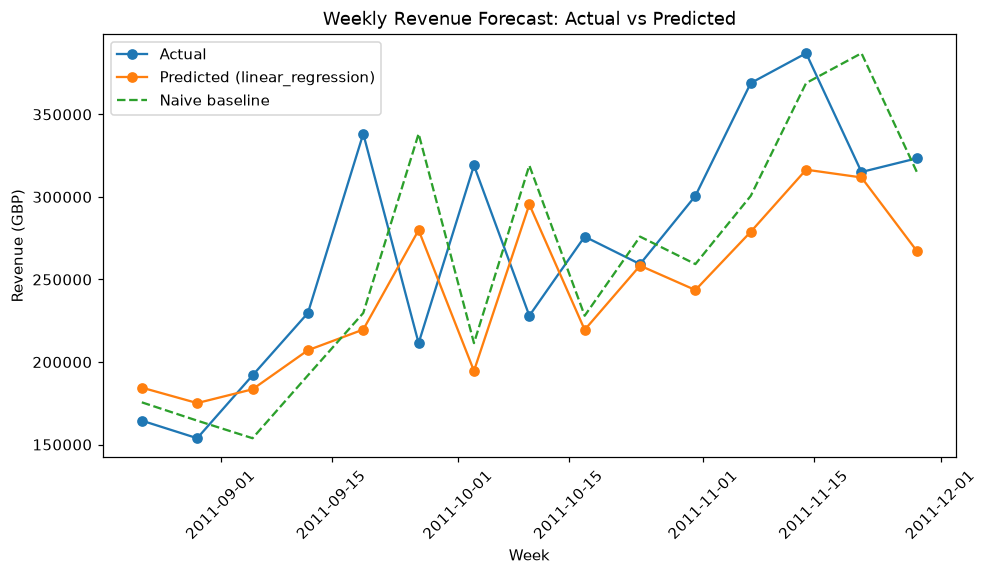
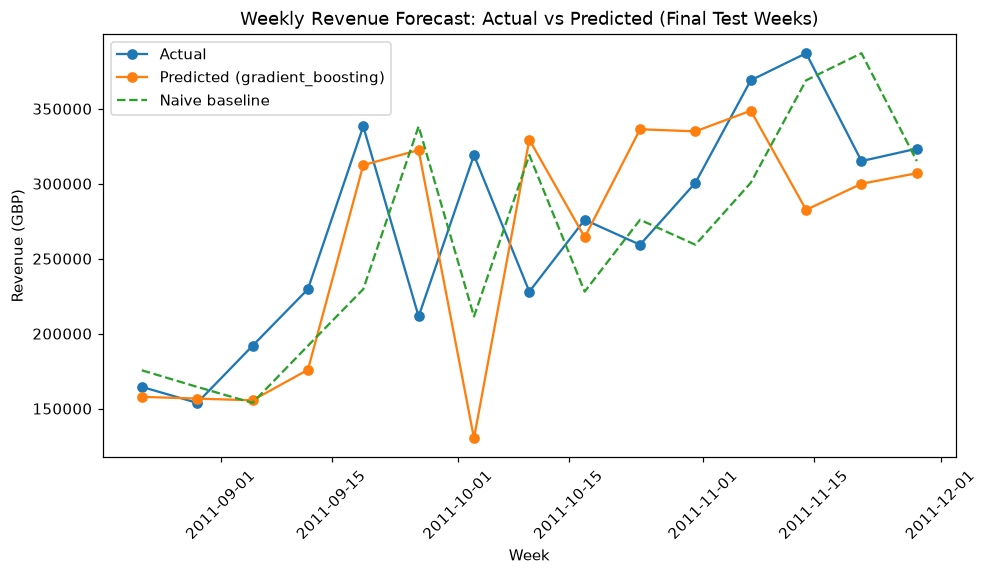
fix: separate model selection from final test evaluation in sales forecasting

diff --git a/scripts/sales_forecasting.py b/scripts/sales_forecasting.py
@@ -2,9 +2,16 @@
 Forecasts total weekly retail revenue.
 
 Builds a weekly revenue series from the cleaned transactions, compares a
-naive "last week repeats" baseline against a regression model trained on
-lag and rolling average features, and saves the evaluation plot and
-metrics.
+naive "last week repeats" baseline against a few regression models
+trained on lag and rolling average features.
+
+Model selection uses a validation period, not the final test period. The
+final test period is only touched once, after the winning model has
+already been chosen. This avoids picking whichever model happens to look
+best on the exact weeks we report results for.
+
+Split, in chronological order:
+    training period -> validation period -> final test period
 
 Run scripts/clean_data.py first so data/processed/retail_clean.csv exists.
 """
@@ -21,9 +28,11 @@ RANDOM_STATE = 42
 
 PROCESSED_DIR = os.path.join("data", "processed")
 FIGURES_DIR = os.path.join("outputs", "figures")
+TABLES_DIR = os.path.join("outputs", "tables")
 METRICS_PATH = os.path.join("outputs", "metrics", "model_metrics.csv")
 
 TEST_WEEKS = 15
+VALIDATION_WEEKS = 12
 
 
 def build_weekly_revenue():
@@ -57,11 +66,14 @@ def add_features(weekly):
 
 
 def append_metrics(rows):
+    # the winning model name changes depending on the validation result, so
+    # clear out any old "sales_forecast_<model>" rows first, otherwise a
+    # stale row from a previously winning model would stick around
     os.makedirs(os.path.dirname(METRICS_PATH), exist_ok=True)
     new_rows = pd.DataFrame(rows, columns=["model", "metric", "value"])
     if os.path.exists(METRICS_PATH):
         existing = pd.read_csv(METRICS_PATH)
-        existing = existing[~existing["model"].isin(new_rows["model"].unique())]
+        existing = existing[~existing["model"].str.startswith("sales_forecast")]
         combined = pd.concat([existing, new_rows], ignore_index=True)
     else:
         combined = new_rows
@@ -70,6 +82,7 @@ def append_metrics(rows):
 
 def main():
     os.makedirs(FIGURES_DIR, exist_ok=True)
+    os.makedirs(TABLES_DIR, exist_ok=True)
 
     weekly = build_weekly_revenue()
     print(f"Weekly revenue series has {len(weekly)} complete weeks")
@@ -81,18 +94,15 @@ def main():
     X = weekly[feature_cols]
     y = weekly["revenue"]
 
-    split_index = len(weekly) - TEST_WEEKS
-    X_train, X_test = X.iloc[:split_index], X.iloc[split_index:]
-    y_train, y_test = y.iloc[:split_index], y.iloc[split_index:]
-    naive_test = weekly["naive_prediction"].iloc[split_index:]
-    weeks_test = weekly["week_start"].iloc[split_index:]
+    test_start = len(weekly) - TEST_WEEKS
+    val_start = test_start - VALIDATION_WEEKS
 
-    print(f"Train weeks: {len(X_train)}, Test weeks: {len(X_test)}")
+    X_train, X_val, X_test = X.iloc[:val_start], X.iloc[val_start:test_start], X.iloc[test_start:]
+    y_train, y_val, y_test = y.iloc[:val_start], y.iloc[val_start:test_start], y.iloc[test_start:]
+    naive_test = weekly["naive_prediction"].iloc[test_start:]
+    weeks_test = weekly["week_start"].iloc[test_start:]
 
-    # naive baseline: next week's revenue = previous week's revenue
-    baseline_mae = mean_absolute_error(y_test, naive_test)
-    baseline_rmse = np.sqrt(mean_squared_error(y_test, naive_test))
-    print(f"\nNaive baseline  MAE: {baseline_mae:,.0f}  RMSE: {baseline_rmse:,.0f}")
+    print(f"Train weeks: {len(X_train)}, Validation weeks: {len(X_val)}, Test weeks: {len(X_test)}")
 
     candidates = {
         "linear_regression": LinearRegression(),
@@ -100,24 +110,40 @@ def main():
         "gradient_boosting": GradientBoostingRegressor(random_state=RANDOM_STATE),
     }
 
-    results = {}
+    print("\nValidation results (used to pick the model, not reported as final):")
+    val_scores = {}
     for name, model in candidates.items():
         model.fit(X_train, y_train)
-        preds = model.predict(X_test)
-        mae = mean_absolute_error(y_test, preds)
-        rmse = np.sqrt(mean_squared_error(y_test, preds))
-        results[name] = {"model": model, "mae": mae, "rmse": rmse, "preds": preds}
-        print(f"{name:<20} MAE: {mae:,.0f}  RMSE: {rmse:,.0f}")
+        val_preds = model.predict(X_val)
+        val_mae = mean_absolute_error(y_val, val_preds)
+        val_scores[name] = val_mae
+        print(f"{name:<20} validation MAE: {val_mae:,.0f}")
 
-    best_name = min(results, key=lambda k: results[k]["mae"])
-    best = results[best_name]
-    print(f"\nBest model: {best_name}")
+    best_name = min(val_scores, key=val_scores.get)
+    print(f"\nBest model on validation: {best_name}")
+
+    # refit the winning model on train + validation, then touch the final
+    # test period exactly once
+    X_train_val = pd.concat([X_train, X_val])
+    y_train_val = pd.concat([y_train, y_val])
+    best_model = candidates[best_name]
+    best_model.fit(X_train_val, y_train_val)
+    test_preds = best_model.predict(X_test)
+
+    baseline_mae = mean_absolute_error(y_test, naive_test)
+    baseline_rmse = np.sqrt(mean_squared_error(y_test, naive_test))
+    model_mae = mean_absolute_error(y_test, test_preds)
+    model_rmse = np.sqrt(mean_squared_error(y_test, test_preds))
+
+    print(f"\nFinal test results ({TEST_WEEKS} untouched weeks):")
+    print(f"Naive baseline       MAE: {baseline_mae:,.0f}  RMSE: {baseline_rmse:,.0f}")
+    print(f"{best_name:<20} MAE: {model_mae:,.0f}  RMSE: {model_rmse:,.0f}")
 
     fig, ax = plt.subplots(figsize=(10, 5))
     ax.plot(weeks_test, y_test.values, marker="o", label="Actual")
-    ax.plot(weeks_test, best["preds"], marker="o", label=f"Predicted ({best_name})")
+    ax.plot(weeks_test, test_preds, marker="o", label=f"Predicted ({best_name})")
     ax.plot(weeks_test, naive_test.values, linestyle="--", label="Naive baseline")
-    ax.set_title("Weekly Revenue Forecast: Actual vs Predicted")
+    ax.set_title("Weekly Revenue Forecast: Actual vs Predicted (Final Test Weeks)")
     ax.set_xlabel("Week")
     ax.set_ylabel("Revenue (GBP)")
     ax.tick_params(axis="x", rotation=45)
@@ -126,11 +152,20 @@ def main():
     plt.close(fig)
     print("Saved outputs/figures/12_sales_forecast_actual_vs_predicted.png")
 
+    results_table = pd.DataFrame({
+        "week_start": weeks_test.values,
+        "actual_revenue": y_test.values,
+        "predicted_revenue": test_preds,
+        "naive_prediction": naive_test.values,
+    })
+    results_table.to_csv(os.path.join(TABLES_DIR, "sales_forecast_results.csv"), index=False)
+    print("Saved outputs/tables/sales_forecast_results.csv")
+
     metric_rows = [
         ["sales_forecast_baseline", "MAE", round(baseline_mae, 2)],
         ["sales_forecast_baseline", "RMSE", round(baseline_rmse, 2)],
-        [f"sales_forecast_{best_name}", "MAE", round(best["mae"], 2)],
-        [f"sales_forecast_{best_name}", "RMSE", round(best["rmse"], 2)],
+        [f"sales_forecast_{best_name}", "MAE", round(model_mae, 2)],
+        [f"sales_forecast_{best_name}", "RMSE", round(model_rmse, 2)],
     ]
     append_metrics(metric_rows)
     print("Saved metrics to outputs/metrics/model_metrics.csv")
